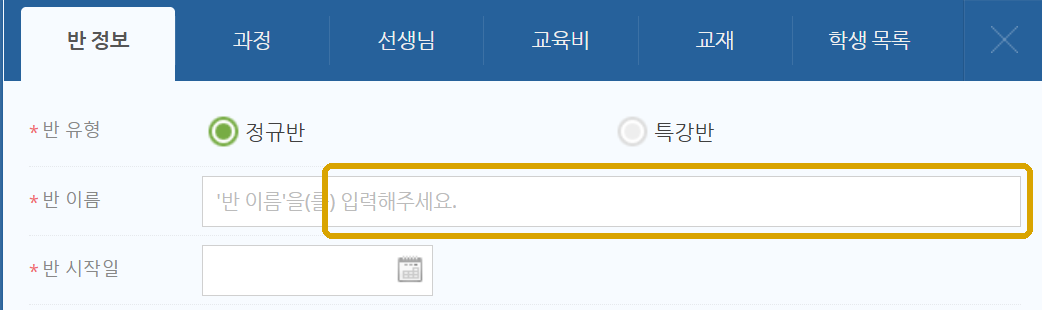
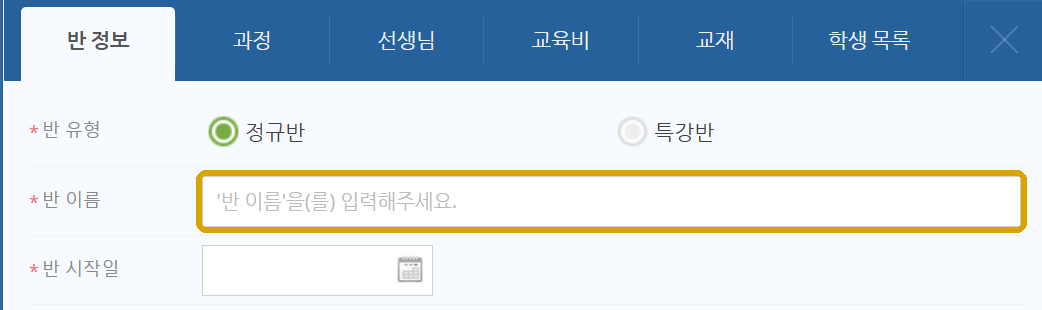
iMS 매뉴얼 '반 이름' 스텝 5가지 수정
- 반 이름 입력칸 하이라이트 박스를 실제 테두리 픽셀에 맞춤
  (border scan으로 정확한 좌표 측정)
- 정규반 카드에 CHESS·ACE 형식을 각각 따로 표기 (레벨 표기 방식이 다름)
- 포맷 카드 글꼴을 모노스페이스에서 사이트 기본 글꼴로 교체
- "(뒤에 부 번호)" 문구 삭제
- "학기부"를 "학기,부"로 분리 표기하고, 맨 아래 학기 범례에
  겨울학기 1부=WI1·2부=WI2 같은 실제 부 번호 예시 추가

Changed region(s): [[0.1843, 0.5226, 1.0, 0.7839]]

diff --git a/ims-manual/index.html b/ims-manual/index.html
@@ -113,9 +113,12 @@ button{font:inherit;color:inherit}
 .format-card{background:var(--bg-alt);border-radius:16px;padding:22px 24px}
 .section.alt .format-card{background:var(--bg)}
 .format-tag{display:inline-block;font-size:13px;font-weight:700;color:var(--ink);background:var(--accent-pastel);padding:4px 12px;border-radius:999px;margin-bottom:14px}
-.format-pattern{font-family:ui-monospace,'SF Mono',Menlo,Consolas,monospace;font-size:19px;font-weight:600;color:var(--ink);letter-spacing:-.01em;line-height:1.5}
-.format-example{font-family:ui-monospace,'SF Mono',Menlo,Consolas,monospace;font-size:14.5px;color:var(--muted);margin-top:10px}
-.format-legend{font-size:14px;color:var(--muted);line-height:1.8}
+.format-sub{margin-top:16px}
+.format-sub:first-of-type{margin-top:0}
+.format-sub-label{font-size:13px;font-weight:700;color:var(--muted);margin-bottom:4px}
+.format-pattern{font-size:18px;font-weight:700;color:var(--ink);line-height:1.5}
+.format-example{font-size:14.5px;color:var(--muted);margin-top:6px}
+.format-legend{font-size:14.5px;color:var(--muted);line-height:1.9}
 .format-legend b{color:var(--ink);font-weight:700}
 
 .note{margin-top:24px;padding-top:18px;border-top:1px solid var(--line)}
@@ -279,8 +282,16 @@ footer.endnote p{font-size:12.5px;color:var(--muted)}
       <div class="format-group">
         <div class="format-card">
           <span class="format-tag">정규반</span>
-          <div class="format-pattern">[레벨] 학기부 / 요일 / 강의실</div>
-          <div class="format-example">예) [DSB1]FA1/MWF/A</div>
+          <div class="format-sub">
+            <div class="format-sub-label">CHESS</div>
+            <div class="format-pattern">[레벨] 학기,부 / 요일 / 강의실</div>
+            <div class="format-example">예) [DSB1]FA1/MWF/A</div>
+          </div>
+          <div class="format-sub">
+            <div class="format-sub-label">ACE</div>
+            <div class="format-pattern">[레벨(개월수)] 학기,부 / 요일 / 학년 / 강의실</div>
+            <div class="format-example">예) [PA1(4-6)]FA3/MWF/E6/A</div>
+          </div>
         </div>
         <div class="format-card">
           <span class="format-tag">내신반</span>
@@ -288,7 +299,7 @@ footer.endnote p{font-size:12.5px;color:var(--muted)}
           <div class="format-example">예) [내신]FA4/MWF/M3/O(천재이,미래엔문)</div>
         </div>
       </div>
-      <p class="format-legend">학기 <b>SP</b>봄 · <b>SU</b>여름 · <b>FA</b>가을 · <b>WI</b>겨울 (뒤에 부 번호) · 요일 <b>MWF</b>월수금 · <b>TTH</b>화목</p>
+      <p class="format-legend">학기 <b>SP</b>봄 · <b>SU</b>여름 · <b>FA</b>가을 · <b>WI</b>겨울 · 요일 <b>MWF</b>월수금 · <b>TTH</b>화목<br>부 번호는 학기 뒤에 그대로 붙여요 — 겨울학기 1부 <b>WI1</b> · 2부 <b>WI2</b></p>
     </div>
   </section>
 </template>
